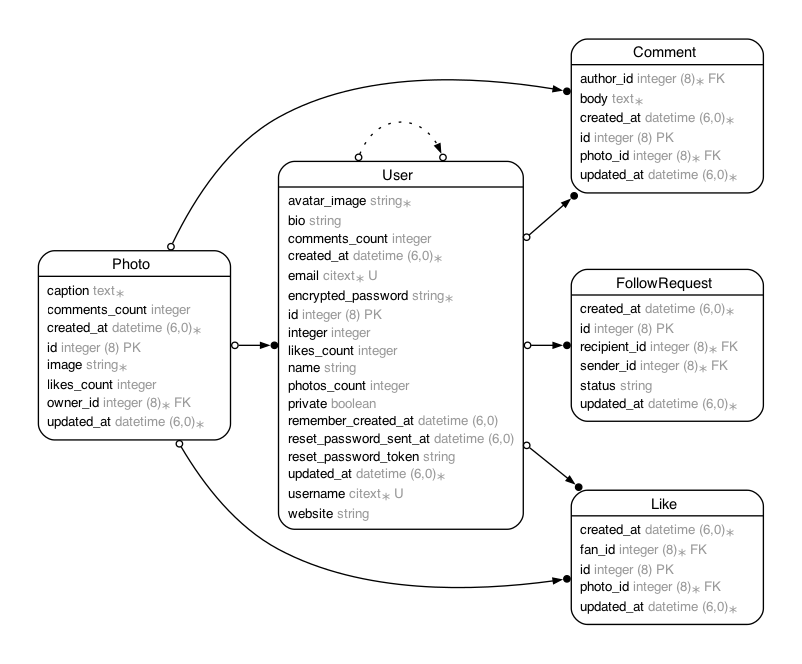
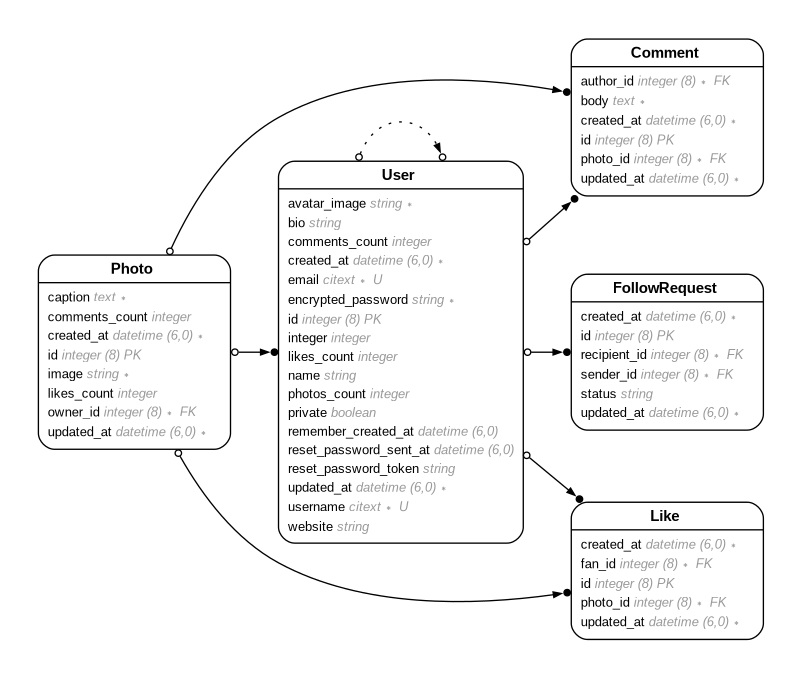
refining user actions and authorizations.

diff --git a/config/routes.rb b/config/routes.rb
@@ -3,10 +3,10 @@ Rails.application.routes.draw do
 
   devise_for :users
 
-  resources :comments
-  resources :follow_requests
-  resources :likes
-  resources :photos
+  resources :comments, except: [ :index, :show ]
+  resources :follow_requests, except: [ :index, :show, :new, :edit ]
+  resources :likes, only: [ :create, :destroy ]
+  resources :photos, except: [ :index ]
   resources :users, only: [ :index ]
 
   get ":username" => "users#show", as: :user

diff --git a/app/controllers/comments_controller.rb b/app/controllers/comments_controller.rb
@@ -1,5 +1,6 @@
 class CommentsController < ApplicationController
   before_action :set_comment, only: %i[ show edit update destroy ]
+  before_action :is_author, only: %i[ edit update destroy ]
 
   # GET /comments or /comments.json
   def index
@@ -66,5 +67,11 @@ class CommentsController < ApplicationController
     # Only allow a list of trusted parameters through.
     def comment_params
       params.require(:comment).permit(:author_id, :photo_id, :body)
+    end
+
+    def is_author
+      unless @comment.author == current_user
+        redirect_back fallback_location: root_url, alert: "You're not authorized for that"
+      end
     end
 end

diff --git a/app/controllers/follow_requests_controller.rb b/app/controllers/follow_requests_controller.rb
@@ -1,5 +1,6 @@
 class FollowRequestsController < ApplicationController
   before_action :set_follow_request, only: %i[ show edit update destroy ]
+  # before_action :is_recipient, only: %i[ show edit update destroy ]
 
   # GET /follow_requests or /follow_requests.json
   def index
@@ -66,5 +67,11 @@ class FollowRequestsController < ApplicationController
     # Only allow a list of trusted parameters through.
     def follow_request_params
       params.require(:follow_request).permit(:recipient_id, :sender_id, :status)
+    end
+
+    def is_recipient
+      unless current_user == @follow_request.recipient
+        redirect_back fallback_location: root_url, alert: "You're not authorized for that"
+      end
     end
 end

diff --git a/app/controllers/photos_controller.rb b/app/controllers/photos_controller.rb
@@ -1,5 +1,6 @@
 class PhotosController < ApplicationController
   before_action :set_photo, only: %i[ show edit update destroy ]
+  before_action :is_owner, only: %i[ edit update destroy ]
 
   # GET /photos or /photos.json
   def index
@@ -66,5 +67,11 @@ class PhotosController < ApplicationController
     # Only allow a list of trusted parameters through.
     def photo_params
       params.require(:photo).permit(:image, :comments_count, :likes_count, :caption, :owner_id)
+    end
+
+    def is_owner
+      unless current_user == @photo.owner
+        redirect_back fallback_location: root_url, alert: "You're not authorized for that"
+      end
     end
 end

diff --git a/app/controllers/users_controller.rb b/app/controllers/users_controller.rb
@@ -1,5 +1,6 @@
 class UsersController < ApplicationController
   before_action :set_user, only: %i[ show liked feed discover ]
+  before_action :is_user, only: %i[ feed discover ]
 
   def index
     @users = @q.result
@@ -12,6 +13,12 @@ class UsersController < ApplicationController
         @user = User.find_by!(username: params.fetch(:username))
       else
         @user = current_user
+      end
+    end
+
+    def is_user
+      unless current_user == @user
+        redirect_back fallback_location: root_url, alert: "You're not authorized for that"
       end
     end
 end